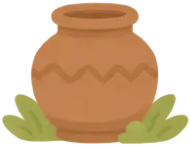
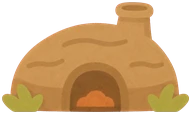
feat: 옹기1·옹기2·유럽자기 전시실 아이콘 교체와 크기 균형 조정
- 옹기1 흙가마, 옹기2 장독, 유럽자기 파란 접시 아이콘을 기존 아이콘 스타일로 새로 그림
- 아이콘별 확대 비율로 홈 전시실 목록의 보이는 크기를 맞추고, 장독과 접시는 카드 세로 가운데에 배치
- 흙가마는 기존 옹기1 큰 상자 대신 공통 상자를 쓰고 그림자만 뺌

diff --git a/src/main/resources/static/css/pages/home.css b/src/main/resources/static/css/pages/home.css
@@ -530,14 +530,20 @@
   object-position: center bottom;
   /* 유물 아래 옅은 그림자 */
   background: radial-gradient(50% 13% at 50% 92%, #F3E6D3 55%, rgba(243, 230, 211, 0) 100%);
+  /* 그림 비율이 달라 상자에 맞추면 크기가 들쭉날쭉하다. 풀을 뺀 유물 면적이 비슷해지도록 바닥 가운데를 기준으로 키우거나 줄인다. */
+  transform: translateY(var(--thumb-shift, 0)) scale(var(--thumb-scale, 1));
+  transform-origin: center bottom;
 }
 
-/* 옹기 항아리는 풀밭이 함께 그려져 있어 그림자 없이 크게 놓는다. */
+/* 장독과 접시는 키운 만큼 위로 솟아 카드 세로 가운데에 오도록 내린다.
+   접시는 가운데 아이보리가 바탕과 섞여 같은 높이의 수석보다 작아 보이므로 더 키운다. */
+.home-room__thumb--ongi2 { --thumb-scale: 1.2; --thumb-shift: calc(14 * var(--u)); }
+.home-room__thumb--europe { --thumb-scale: 1.15; --thumb-shift: calc(12 * var(--u)); }
+.home-room__thumb--local { --thumb-scale: 1.03; }
+.home-room__thumb--stone { --thumb-scale: 1.05; }
+
+/* 흙가마는 풀밭이 함께 그려져 있어 그림자를 깔지 않는다. */
 .home-room__thumb--ongi1 {
-  width: calc(112 * var(--u));
-  height: calc(88 * var(--u));
-  margin: 0 calc(36 * var(--u)) 0 calc(8 * var(--u));
-  padding-bottom: 0;
   background: none;
 }
 
